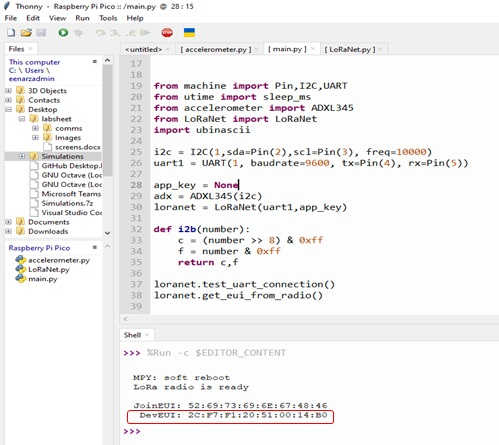
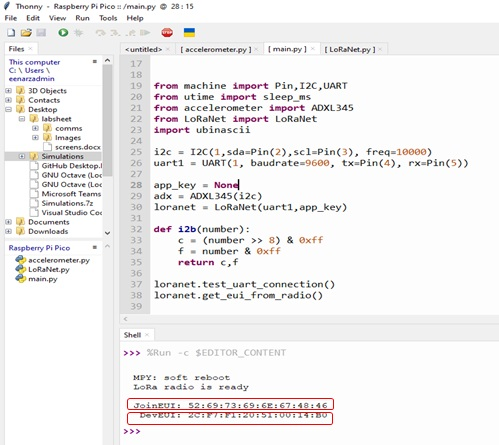
Maryam 10

Changed region(s): [[0.2405, 0.8764, 0.6914, 0.964]]

diff --git a/lesson1/lora.md b/lesson1/lora.md
@@ -36,12 +36,14 @@ Email: leeds_labs
 
 Password: lora1406@
 
-Then click **Login with The Things ID**. After loggin in, click on console from the user drop down menu on the right as shown ![ScreenshotofIDE3](./assets/SC2 (ttn console).jpg). To configure regional settings, use United Kingdom from the **Device or gateway lcation** dropdown and select **Europe 1** from existing clusters. ![ScreenshotofIDE4](./assets/SC3 (ttn settings).jpg. Choose **Create Application** on the next page. ![ScreenshotofIDE5](./assets/SC4 (create app).jpg)
+Then click **Login with The Things ID**. After loggin in, click on console from the user drop down menu on the right as shown ![ScreenshotofIDE3](./assets/SC2 (ttn console).jpg). To configure regional settings, use United Kingdom from the **Device or gateway lcation** dropdown and select **Europe 1** from existing clusters. ![ScreenshotofIDE4](./assets/SC3 (ttn settings).jpg. Choose **Create Application** on the next page. 
+
+![ScreenshotofIDE5](./assets/SC4 (create app).jpg)
 
 Enter a unique Application ID on the following screen along with an **Accelerometer Test** as application name and description in respective text boxes as shown. Click create application button. Try out a few if the one you entered already exists untill you have a unique ID to create an application. Once you have successfully created an application, it will appear in the list of existing applications and can be accessed from the **Applications** tab on the top of the TTN webpage.  
 
 ## Registering a new device
-To register an IoT end node, we need to specify it Device Extended Uniques Identifies (DevEUI). The DevEUI is  64-bit globally-unique ID assigned by the manufacturer, or the owner, of the end-device. We first need to extract this from our LoRa board which is connected to the RP2040. For this purpose, complete the following steps:
+To register an IoT end node, we need to specify it Device and Join Extended Uniques Identifies abbreviated as DevEUI and JoinEUI respectively. The DevEUI is  64-bit globally-unique ID assigned by the manufacturer, or the owner, of the end-device. The JoinEUI (AppEUI) is a 64-bit globally unique identifier assigned to the LoRaWAN network's Join Server by either its owner or operator. We first need to extract this from our LoRa board which is connected to the RP2040. For this purpose, complete the following steps:
 1. Plug in the RP2040 to the lab computer. 
 2. Create a new folder called Lab 3.
 3. Navigate to this folder from Thonny IDE.
@@ -187,9 +189,25 @@ loranet.test_uart_connection()
 loranet.get_eui_from_radio()
 
 ```
-Run the code to get the following output which provides you 
+Run the code to get the following output which provides you DevEUI and JoinEUI. Copy this from the Thonny output as shown below. 
 
-It is now time to configure the application and associate an end IoT node with it. For this, click on the **Register End Device** button at the bottom right corner of your newly created application's page as shown in the figure ![ScreenshotofIDE6](./assets/SC6.jpg)
+![ScreenshotofIDE7](./assets/SC7.jpg)
+
+It is now time to configure the application and associate an end IoT node with it. For this, click on the **Register End Device** button at the bottom right corner of your newly created application's page as shown in the screenshot below.
+
+ ![ScreenshotofIDE6](./assets/SC6.jpg)
+
+ You will be taken to the device specification page. Here, fill in the following information:
+ 1. Choose **Select the end device in the LoRaWAN Device Repository** in the inpt method for end device type section.
+ 2. From the dropdown menu, select **Seeed Technology Co. Limited** as End Device Brand, **LoRa-E5 mini** as the Model and **EU_863_870** in the Profile (Region) dropdown. Leave Hardware and Firmaware version as 1.0 as set by default. Do not change this.
+ 3. Select frquency plan to be **Europe 863-870 MHz (SF9 for RX-recommended)**.
+
+ ![ScreenshotofIDE8](./assets/SC8.jpg)
+ 
+ 4. Provide the **JoinEUI** from Thonny IDE output in the Provisioning information section
+ 5. Similarly provide the **DevEUI**
+ 6. Click **Generate** to populate the AppKey field
+ 7. Finish by clicking **Register end device** button at the bottom of the page.
 <details>
 <summary>Task 1</summary>
 Try converting above code into a function which takes note and the duration as input and plays tune for that duration.
